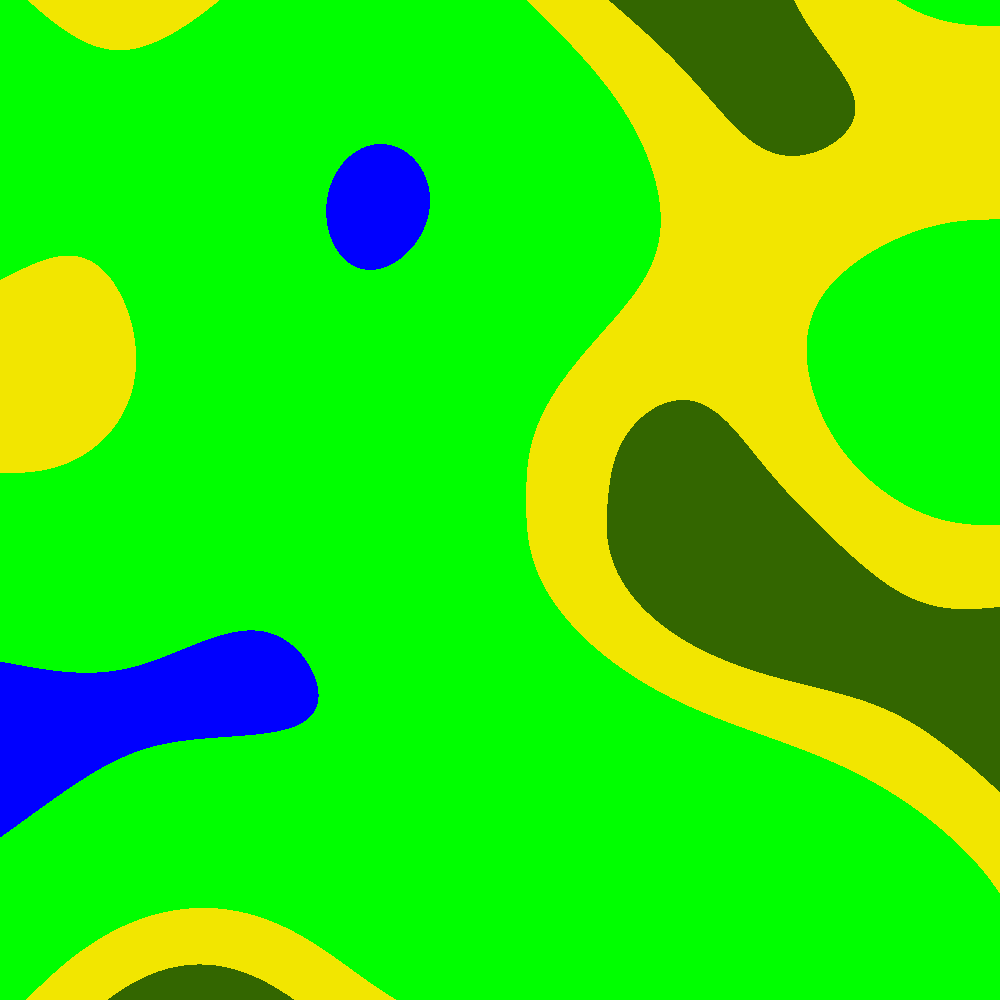
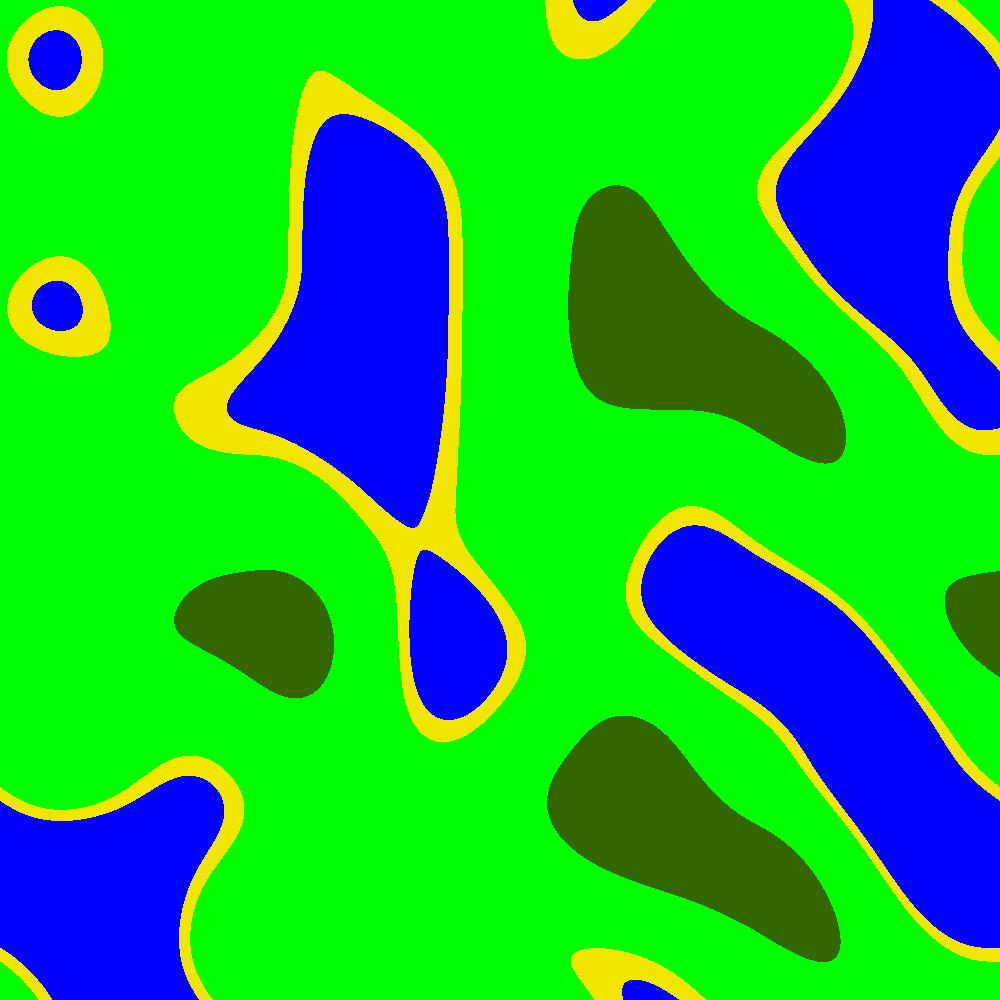
SandToSea

diff --git a/Assets/Scripts/TileManagement.cs b/Assets/Scripts/TileManagement.cs
@@ -11,7 +11,7 @@ public class TileManagement : MonoBehaviour {
 	private Color grassColor = new Color(0,255,0);
 	private Color forestColor = new Color(0.2f,0.4f,0);
 	private Color sandColor = new Color(0.95f,0.9f,0);
-	private Color randomColor = new Color(0f,0f,1f);
+	private Color seaColor = new Color(0f,0f,1f);
 
 	public int regionPositionX;
 	public int regionPositionY;
@@ -30,7 +30,7 @@ public class TileManagement : MonoBehaviour {
 
 		xOrg = (int)Random.Range(1,100);
 		yOrg = (int)Random.Range(1,100);
-		scale = Random.Range(2,4);
+		scale = Random.Range(4,5);
 		float y = 0.0F;
 		while (y < regionMap.height) {
 			float x = 0.0F;
@@ -38,21 +38,20 @@ public class TileManagement : MonoBehaviour {
 				float xCoord = xOrg + x / regionMap.width * scale;
 				float yCoord = yOrg + y / regionMap.height * scale;
 				float sample = Mathf.PerlinNoise(xCoord, yCoord);
-				if(sample < 0.2f)
+				if(sample < 0.3f)
 				{
-					pix[(int)(y * regionMap.width + x)] = randomColor;
+					pix[(int)(y * regionMap.width + x)] = seaColor;
 
 				}
-				else if(sample < 0.5f)
+				else if(sample < 0.35f)
+				{
+					pix[(int)(y * regionMap.width + x)] = sandColor;
+				}
+				else if(sample < 0.7f)
 				{
 					pix[(int)(y * regionMap.width + x)] = grassColor;
 				}
-				else if(sample < 0.6f)
-				{
-					pix[(int)(y * regionMap.width + x)] = sandColor;
-
-				}
-				else if (sample < 0.8f)
+				else if (sample < 1.0f)
 				{
 					pix[(int)(y * regionMap.width + x)] = forestColor;
 				}
